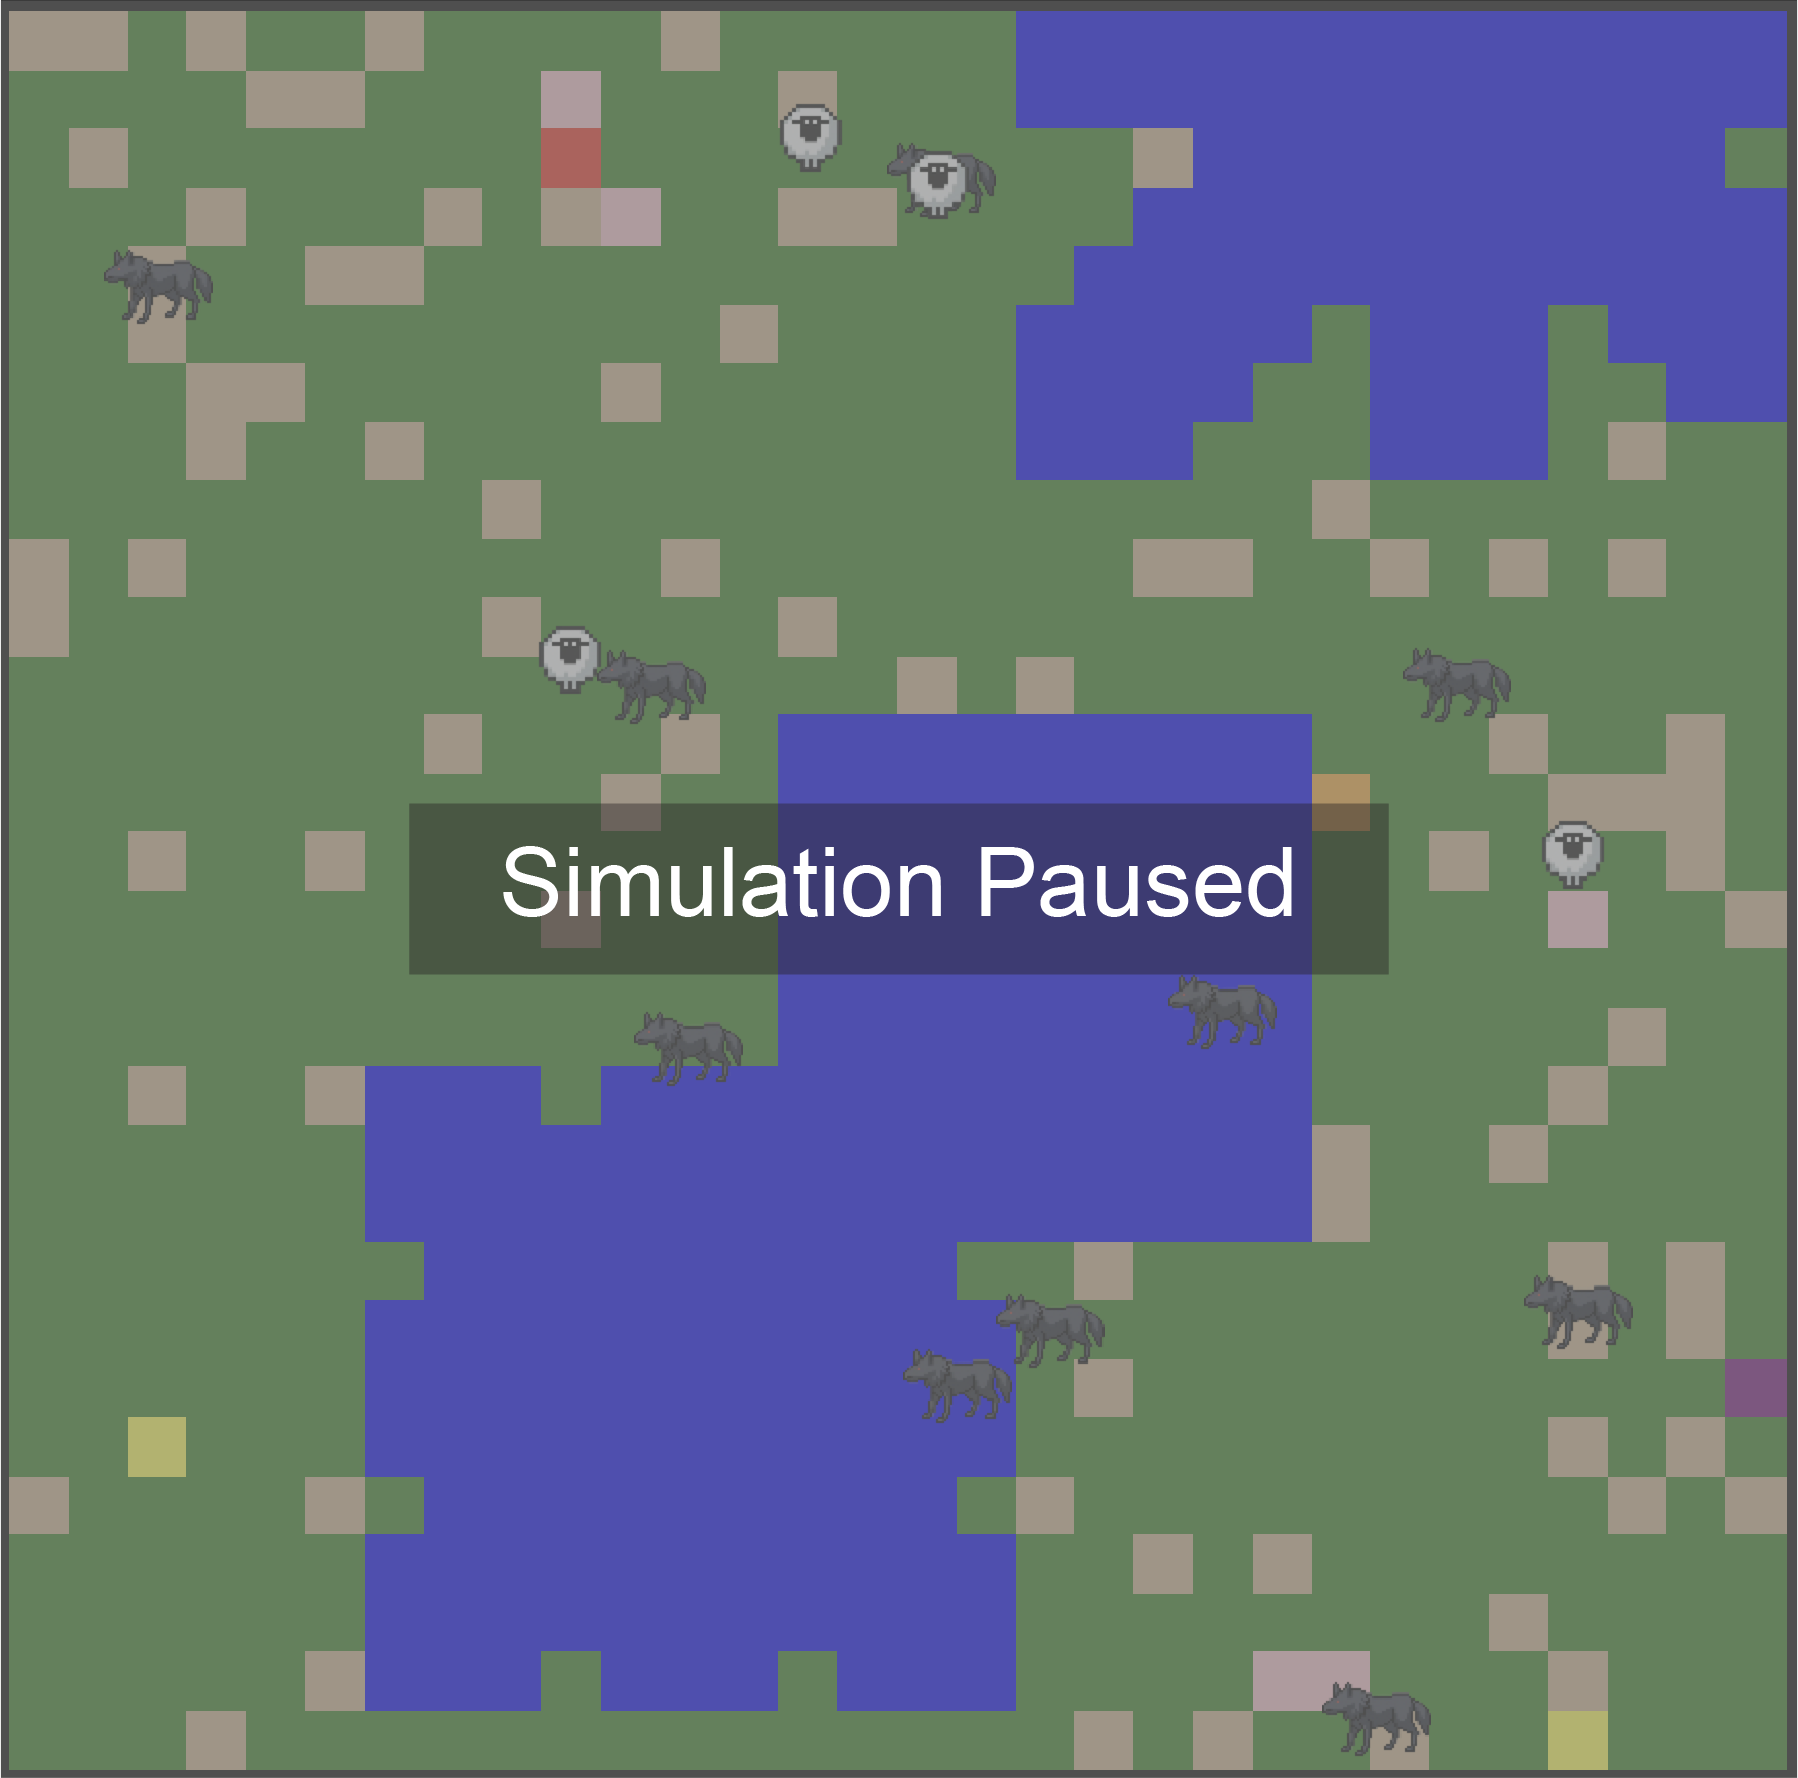
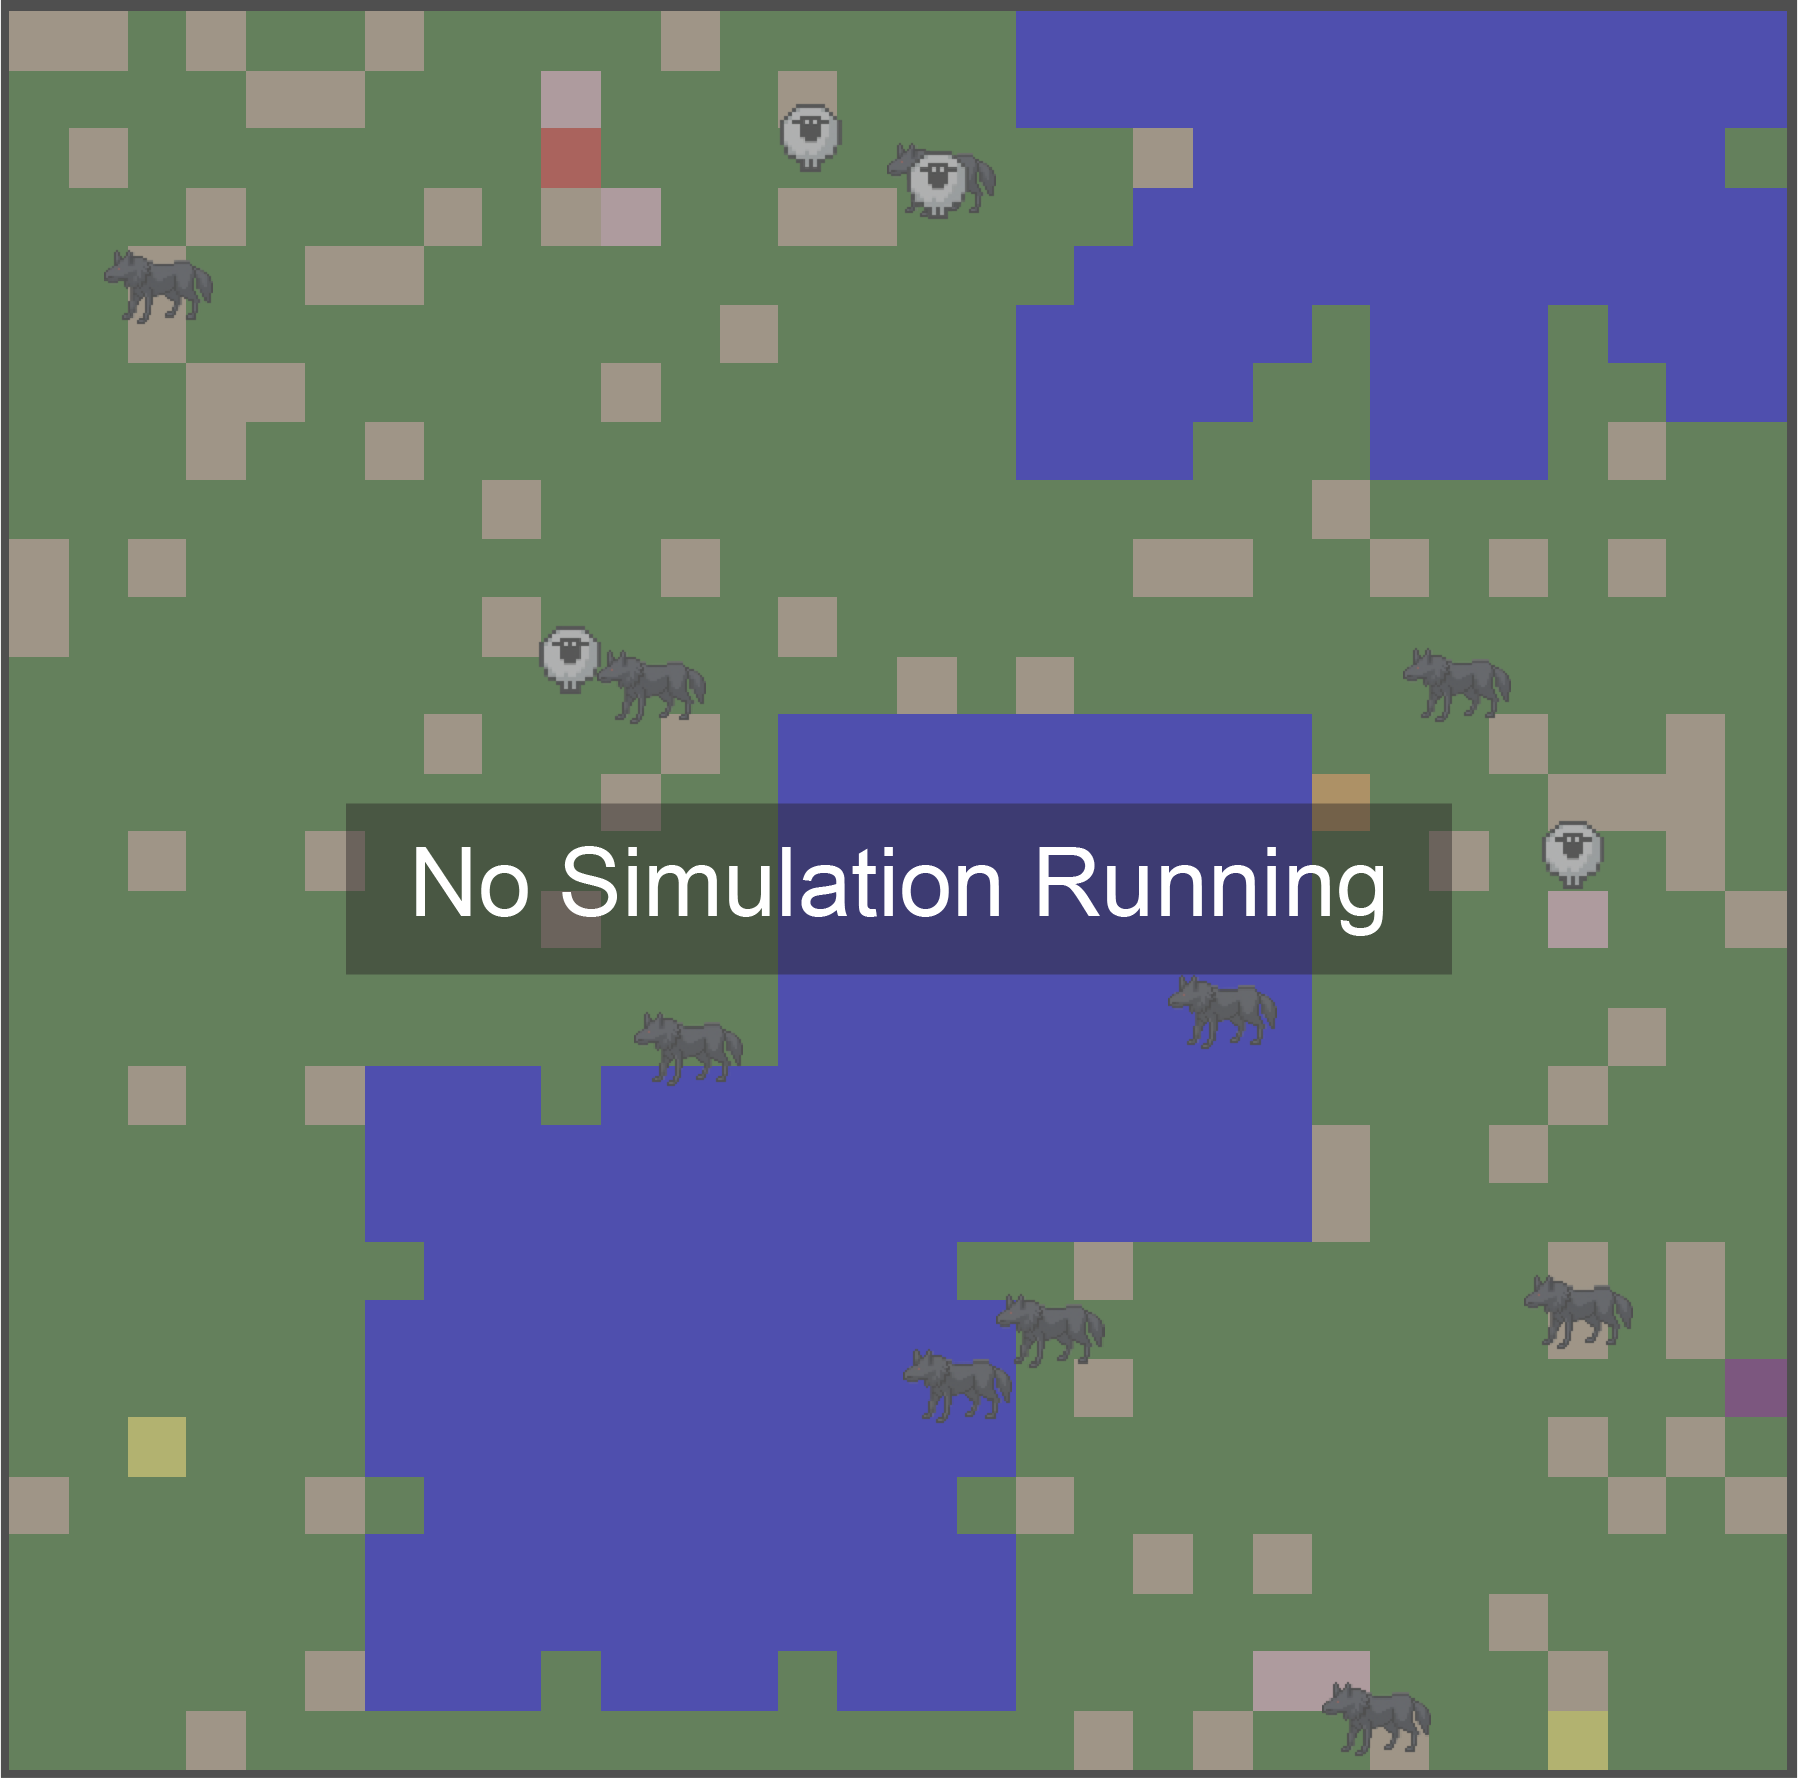
Added sheep and flowers sliders, starting graph, updated paused image

Changed region(s): [[0.1869, 0.4331, 0.8098, 0.5568]]

diff --git a/main.py b/main.py
@@ -11,6 +11,7 @@ from Wolf import *
 import random
 import copy
 import decimal
+from tkinter import *
 
 def roundHalfUp(d): #helper-fn
     # Round to nearest with ties going away from zero.
@@ -24,8 +25,9 @@ def roundHalfUp(d): #helper-fn
 ######################################################################
 
 wolfCount = 5
+sheepCount = 5
 
-animalCount = {'Wolf': wolfCount, 'Sheep': 10}
+animalCount = {'Wolf': wolfCount, 'Sheep': sheepCount}
 SheepNames = set()
 WolfNames = set()
 SheepPosition = []
@@ -147,8 +149,8 @@ def appStarted(app):
     app.swpSliding = False
     app.swpNum = 5
 
-    app.swpTextX = app.width/1.08
-    app.swpTextY = app.margin
+    app.swpTextX = app.width/1.65
+    app.swpTextY = app.height/4
 
     app.swpLineTopX = app.swpTextX - 100
     app.swpLineTopY = app.swpTextY + 30
@@ -160,6 +162,46 @@ def appStarted(app):
     app.swpSliderTopY = app.swpLineTopY - 10
     app.swpSliderBottomX = app.swpSliderTopX + 8
     app.swpSliderBottomY = app.swpLineTopY + 10
+
+    #Starting Sheep Population (ssp)
+    #############################
+
+    app.sspSliding = False
+    app.sspNum = 5
+
+    app.sspTextX = app.width/1.3
+    app.sspTextY = app.height/4
+
+    app.sspLineTopX = app.sspTextX - 100
+    app.sspLineTopY = app.sspTextY + 30
+    app.sspLineBottomX = app.sspTextX + 100
+    app.sspLineBottomY = app.sspLineTopY
+    app.sspLineLength = app.sspLineBottomX - app.sspLineTopX
+
+    app.sspSliderTopX = app.sspLineTopX + (app.sspLineLength/2) - 4
+    app.sspSliderTopY = app.sspLineTopY - 10
+    app.sspSliderBottomX = app.sspSliderTopX + 8
+    app.sspSliderBottomY = app.sspLineTopY + 10
+
+    #Flower Growth Rate (fgr)
+    #############################
+
+    app.fgrSliding = False
+    app.fgrNum = 5
+
+    app.fgrTextX = app.width/1.08
+    app.fgrTextY = app.margin
+
+    app.fgrLineTopX = app.fgrTextX - 100
+    app.fgrLineTopY = app.fgrTextY + 30
+    app.fgrLineBottomX = app.fgrTextX + 100
+    app.fgrLineBottomY = app.fgrLineTopY
+    app.fgrLineLength = app.fgrLineBottomX - app.fgrLineTopX
+
+    app.fgrSliderTopX = app.fgrLineTopX + (app.fgrLineLength/2) - 4
+    app.fgrSliderTopY = app.fgrLineTopY - 10
+    app.fgrSliderBottomX = app.fgrSliderTopX + 8
+    app.fgrSliderBottomY = app.fgrLineTopY + 10
 
 
     #Requires variables from above, so must go here
@@ -241,8 +283,28 @@ def getAddedBareSpotsList(app, currentCellColorsList):
 
 def getAddedFlowersList(app, currentCellColorsList):
 
-    numberOfFlowers = random.randrange(5, (app.rows*app.cols)//40)
 
+    if app.fgrNum == 10:
+        numberOfFlowers = 150
+    elif app.fgrNum == 9:
+        numberOfFlowers = 110
+    elif app.fgrNum == 8:
+        numberOfFlowers = 80
+    elif app.fgrNum == 7:
+        numberOfFlowers = 65
+    elif app.fgrNum == 6:
+        numberOfFlowers = 45
+    elif app.fgrNum == 5:
+        numberOfFlowers = 35
+    elif app.fgrNum == 4:
+        numberOfFlowers = 20
+    elif app.fgrNum == 3:
+        numberOfFlowers = 10
+    elif app.fgrNum == 2:
+        numberOfFlowers = 5
+    elif app.fgrNum == 1:
+        numberOfFlowers = 2
+    print(numberOfFlowers)
     for _ in range(numberOfFlowers + 1):
         flowerColor = app.flowerColorOptions[random.randrange(0,5)]
         row = random.randrange(app.rows)
@@ -428,6 +490,30 @@ def drawStartingWolfPopulationSlider(app, canvas):
     canvas.create_line(app.swpLineTopX, app.swpLineTopY, app.swpLineBottomX, app.swpLineBottomY, fill='grey', width=3)
     canvas.create_rectangle(app.swpSliderTopX, app.swpSliderTopY, app.swpSliderBottomX, app.swpSliderBottomY, fill='black')
 
+def drawStartingSheepPopulationSlider(app, canvas):
+    canvas.create_text(app.sspTextX, app.sspTextY, text=f"Starting Sheep Population: {app.sspNum}", fill='black', font='Ariel 18')
+    canvas.create_line(app.sspLineTopX, app.sspLineTopY, app.sspLineBottomX, app.sspLineBottomY, fill='grey', width=3)
+    canvas.create_rectangle(app.sspSliderTopX, app.sspSliderTopY, app.sspSliderBottomX, app.sspSliderBottomY, fill='black')
+
+def drawFlowerGrowthRateSlider(app, canvas):
+    canvas.create_text(app.fgrTextX, app.fgrTextY, text=f"Flower Growth Rate: {app.fgrNum}", fill='black', font='Ariel 18')
+    canvas.create_line(app.fgrLineTopX, app.fgrLineTopY, app.fgrLineBottomX, app.fgrLineBottomY, fill='grey', width=3)
+    canvas.create_rectangle(app.fgrSliderTopX, app.fgrSliderTopY, app.fgrSliderBottomX, app.fgrSliderBottomY, fill='black')
+
+def drawGraph(app, canvas):
+    canvas.create_rectangle(app.width/1.845, app.height/1.7, app.width - app.margin + 10, app.height/1.12, outline='black')
+    canvas.create_text(app.width/1.875, app.height/1.12, text='0', fill='black')
+    canvas.create_text(app.width/1.87, app.height/1.23, text='5', fill='black')
+    canvas.create_text(app.width/1.87, app.height/1.34, text='10', fill='black')
+    canvas.create_text(app.width/1.87, app.height/1.49, text='15', fill='black')
+    canvas.create_text(app.width/1.87, app.height/1.7, text='20+', fill='black')
+
+    firstRun = True
+    for key in animalCount:
+
+        if firstRun:
+            canvas.create_line(app.width/1.845, app.height/1.12, app.width/1.6, app.height/1.15, fill='red', width=4)
+
 def simulateScreen_redrawAll(app, canvas):
 
     if app.runSim:
@@ -442,15 +528,28 @@ def simulateScreen_redrawAll(app, canvas):
     drawGrassGrowthRateSlider(app, canvas)
     drawWaterFallRateSlider(app, canvas)
     drawStartingWolfPopulationSlider(app, canvas)
+    drawStartingSheepPopulationSlider(app, canvas)
+    drawFlowerGrowthRateSlider(app, canvas)
+    drawGraph(app, canvas)
 
     #Draws "Run Simulation" Button/Text
     canvas.create_rectangle(app.width/1.3, app.height/1.1, app.width - app.margin + 10, app.height - app.margin + 10, fill='black')
-    canvas.create_text(app.width/1.133, app.height/1.06, text='Run Simulation', font='Ariel 30', fill='white')
+    canvas.create_text(app.width/1.133, app.height/1.06, text='Run New Simulation', font='Ariel 30', fill='white')
+
+    #Draws "Pause Simulation" Button/Text
+    if app.runSim:
+        canvas.create_rectangle(app.width/1.885, app.height/1.1, app.width/1.315, app.height - app.margin + 10, fill='black', outline='black')
+    else:
+        canvas.create_rectangle(app.width/1.885, app.height/1.1, app.width/1.315, app.height - app.margin + 10, fill='grey', outline='grey')
+    canvas.create_text(app.width/1.545, app.height/1.06, text='End Current Simulation', font='Ariel 30', fill='white')
 
 
 def simulateScreen_mouseReleased(app, event): 
     app.ggrSliding = False
     app.aawSliding = False
+    app.fgrSliding = False
+    app.swpSliding = False
+    app.sshpSliding = False
 
 def simulateScreen_mousePressed(app, event):
     if app.ggrSliderTopX <= event.x <= app.ggrSliderBottomX and app.ggrSliderTopY <= event.y <= app.ggrSliderBottomY:
@@ -459,13 +558,16 @@ def simulateScreen_mousePressed(app, event):
     if app.aawSliderTopX <= event.x <= app.aawSliderBottomX and app.aawSliderTopY <= event.y <= app.aawSliderBottomY:
         app.aawSliding = True
 
-    if app.width/1.3 <= event.x <= app.width-app.margin and app.height/1.1 <= event.y <= app.height - app.margin + 10:
+    if app.width/1.885 <= event.x <= app.width/1.315 and app.height/1.1 <= event.y <= app.height - app.margin + 10:
+        if app.runSim:
+            app.runSim = False
+
+    if app.width/1.3 <= event.x <= app.width-app.margin + 10 and app.height/1.1 <= event.y <= app.height - app.margin + 10:
         app.runSim = True
         app.cellColorsList = getCellColorsList(app, app.rows, app.cols)
         global animalCount
-        animalCount = {'Wolf': wolfCount, 'Sheep': 10}
+        animalCount = {'Wolf': wolfCount, 'Sheep': sheepCount}
         initializeAnimals(app)
-
 
 def simulateScreen_mouseDragged(app, event): 
     print("Dragging")
@@ -518,6 +620,27 @@ def simulateScreen_mouseDragged(app, event):
     elif app.aawNum in [7,8,9,10]:
         app.aawNum = 3
 
+    #Logic for Flower Growth Rate (fgr) slider
+    ################################################
+    if app.fgrSliderTopX <= event.x <= app.fgrSliderBottomX and app.fgrSliderTopY < event.y < app.fgrSliderBottomY:
+        app.fgrSliding = True
+
+    if app.fgrSliding and app.fgrLineTopX < event.x < app.fgrLineBottomX:
+        app.fgrSliderTopX = event.x
+        app.fgrSliderBottomX = app.fgrSliderTopX + 8
+    elif app.fgrSliding and event.x < app.fgrLineTopX:
+        app.fgrSliderTopX = app.fgrLineTopX
+        app.fgrSliderBottomX = app.fgrSliderTopX + 8
+    elif app.fgrSliding and app.fgrLineBottomX < event.x:
+        app.fgrSliderTopX = app.fgrLineBottomX
+        app.fgrSliderBottomX = app.fgrSliderTopX + 8
+
+    app.fgrNum = int(((app.fgrSliderTopX-app.fgrLineTopX)/app.fgrLineLength)*10)
+
+    #1-10 as the scale is more readable for users, rather than 0-9
+    if app.fgrNum == 0: app.fgrNum = 1
+    elif app.fgrNum == 9: app.fgrNum = 10
+
     #Logic for Starting Wolf Population (swp) slider
     ################################################
     if app.swpSliderTopX <= event.x <= app.swpSliderBottomX and app.swpSliderTopY < event.y < app.swpSliderBottomY:
@@ -541,6 +664,32 @@ def simulateScreen_mouseDragged(app, event):
     #1-10 as the scale is more readable for users, rather than 0-9
     if app.swpNum == 0: app.swpNum = 1
     elif app.swpNum == 9: app.swpNum = 10
+
+    #Logic for Starting Sheep Population (ssp) slider
+    ################################################
+    if app.sspSliderTopX <= event.x <= app.sspSliderBottomX and app.sspSliderTopY < event.y < app.sspSliderBottomY:
+        app.sspSliding = True
+
+    if app.sspSliding and app.sspLineTopX < event.x < app.sspLineBottomX:
+        app.sspSliderTopX = event.x
+        app.sspSliderBottomX = app.sspSliderTopX + 8
+    elif app.sspSliding and event.x < app.sspLineTopX:
+        app.sspSliderTopX = app.sspLineTopX
+        app.sspSliderBottomX = app.sspSliderTopX + 8
+    elif app.sspSliding and app.sspLineBottomX < event.x:
+        app.sspSliderTopX = app.sspLineBottomX
+        app.sspSliderBottomX = app.sspSliderTopX + 8
+
+    app.sspNum = int(((app.sspSliderTopX-app.sspLineTopX)/app.sspLineLength)*10)
+
+    global sheepCount
+    sheepCount = app.sspNum
+
+    #1-10 as the scale is more readable for users, rather than 0-9
+    if app.sspNum == 0: app.sspNum = 1
+    elif app.sspNum == 9: app.sspNum = 10
+
+
 
 
 runApp(width=1728, height=905)
